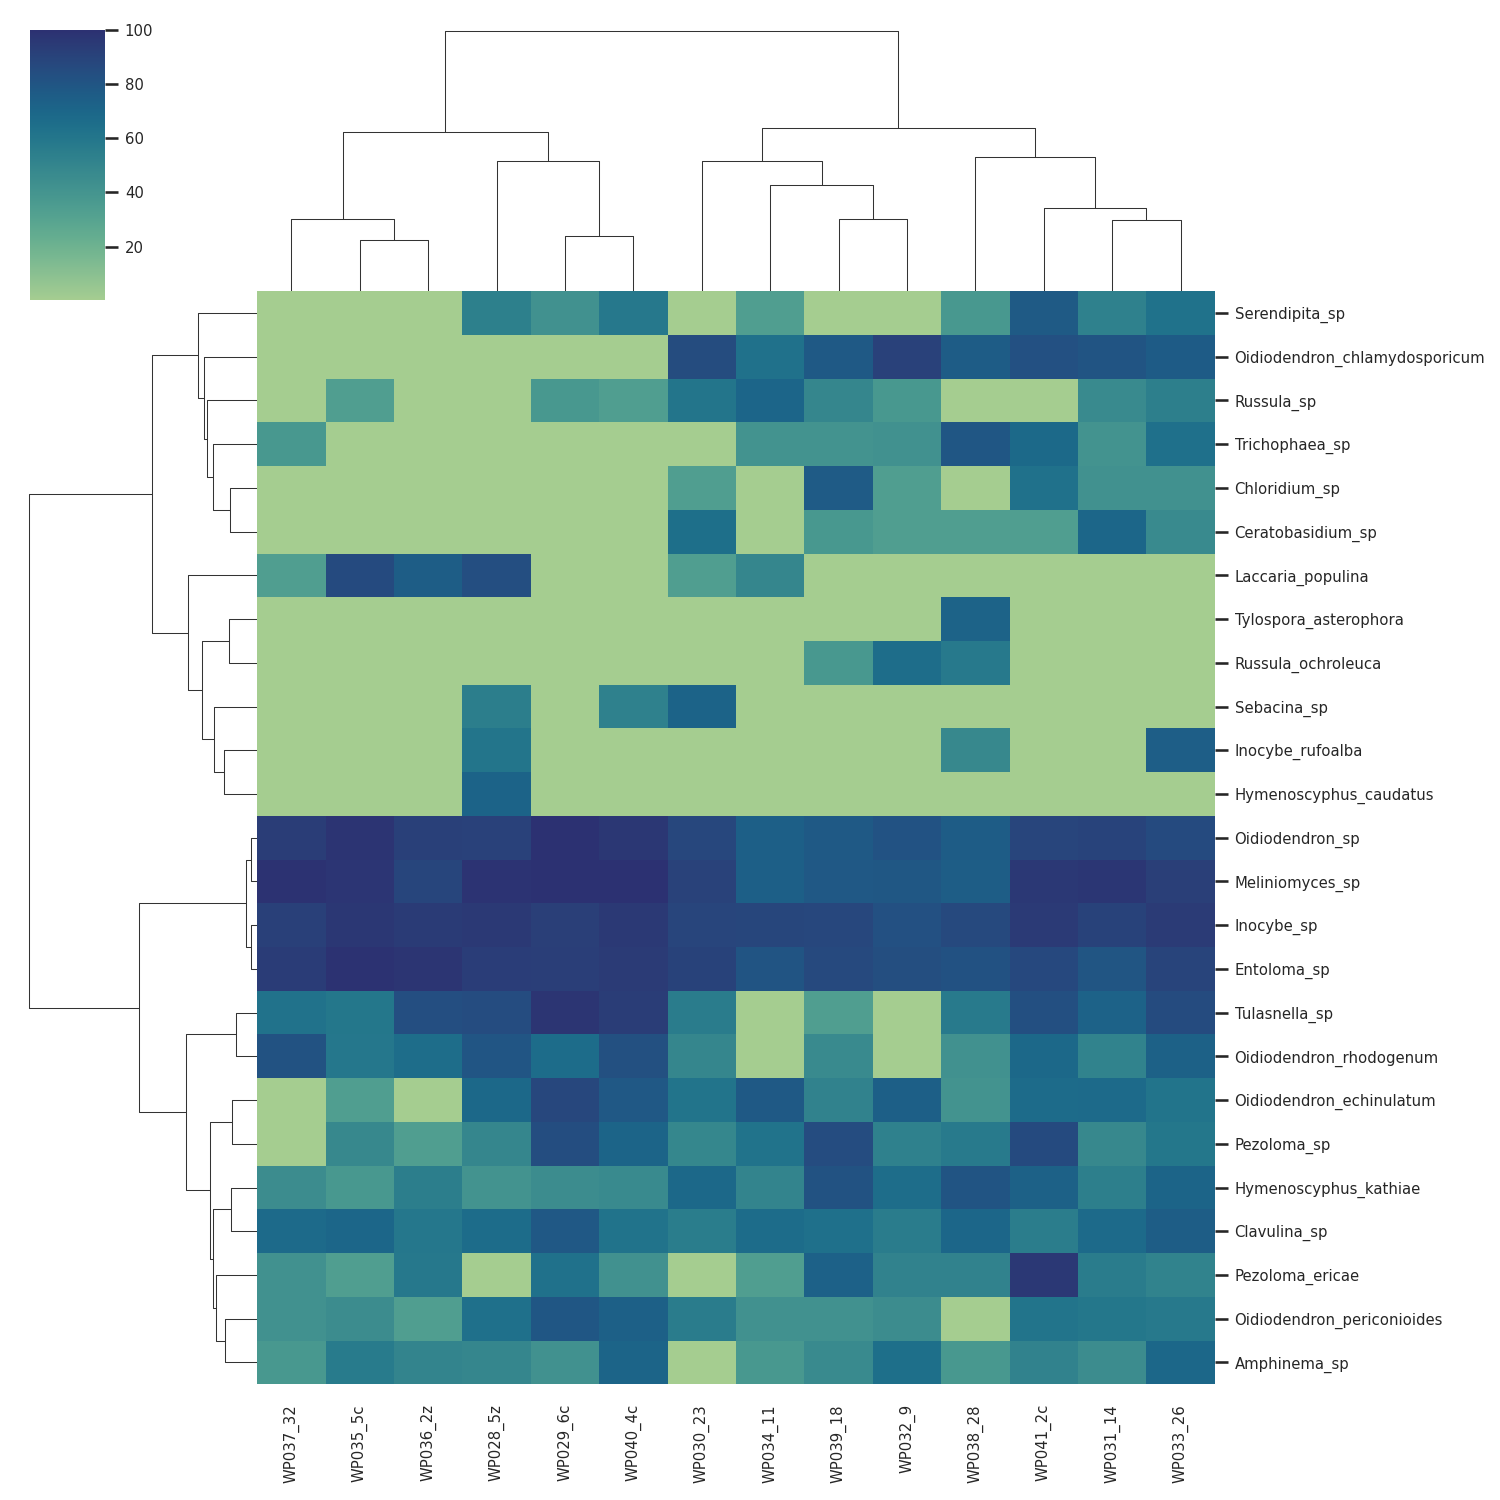
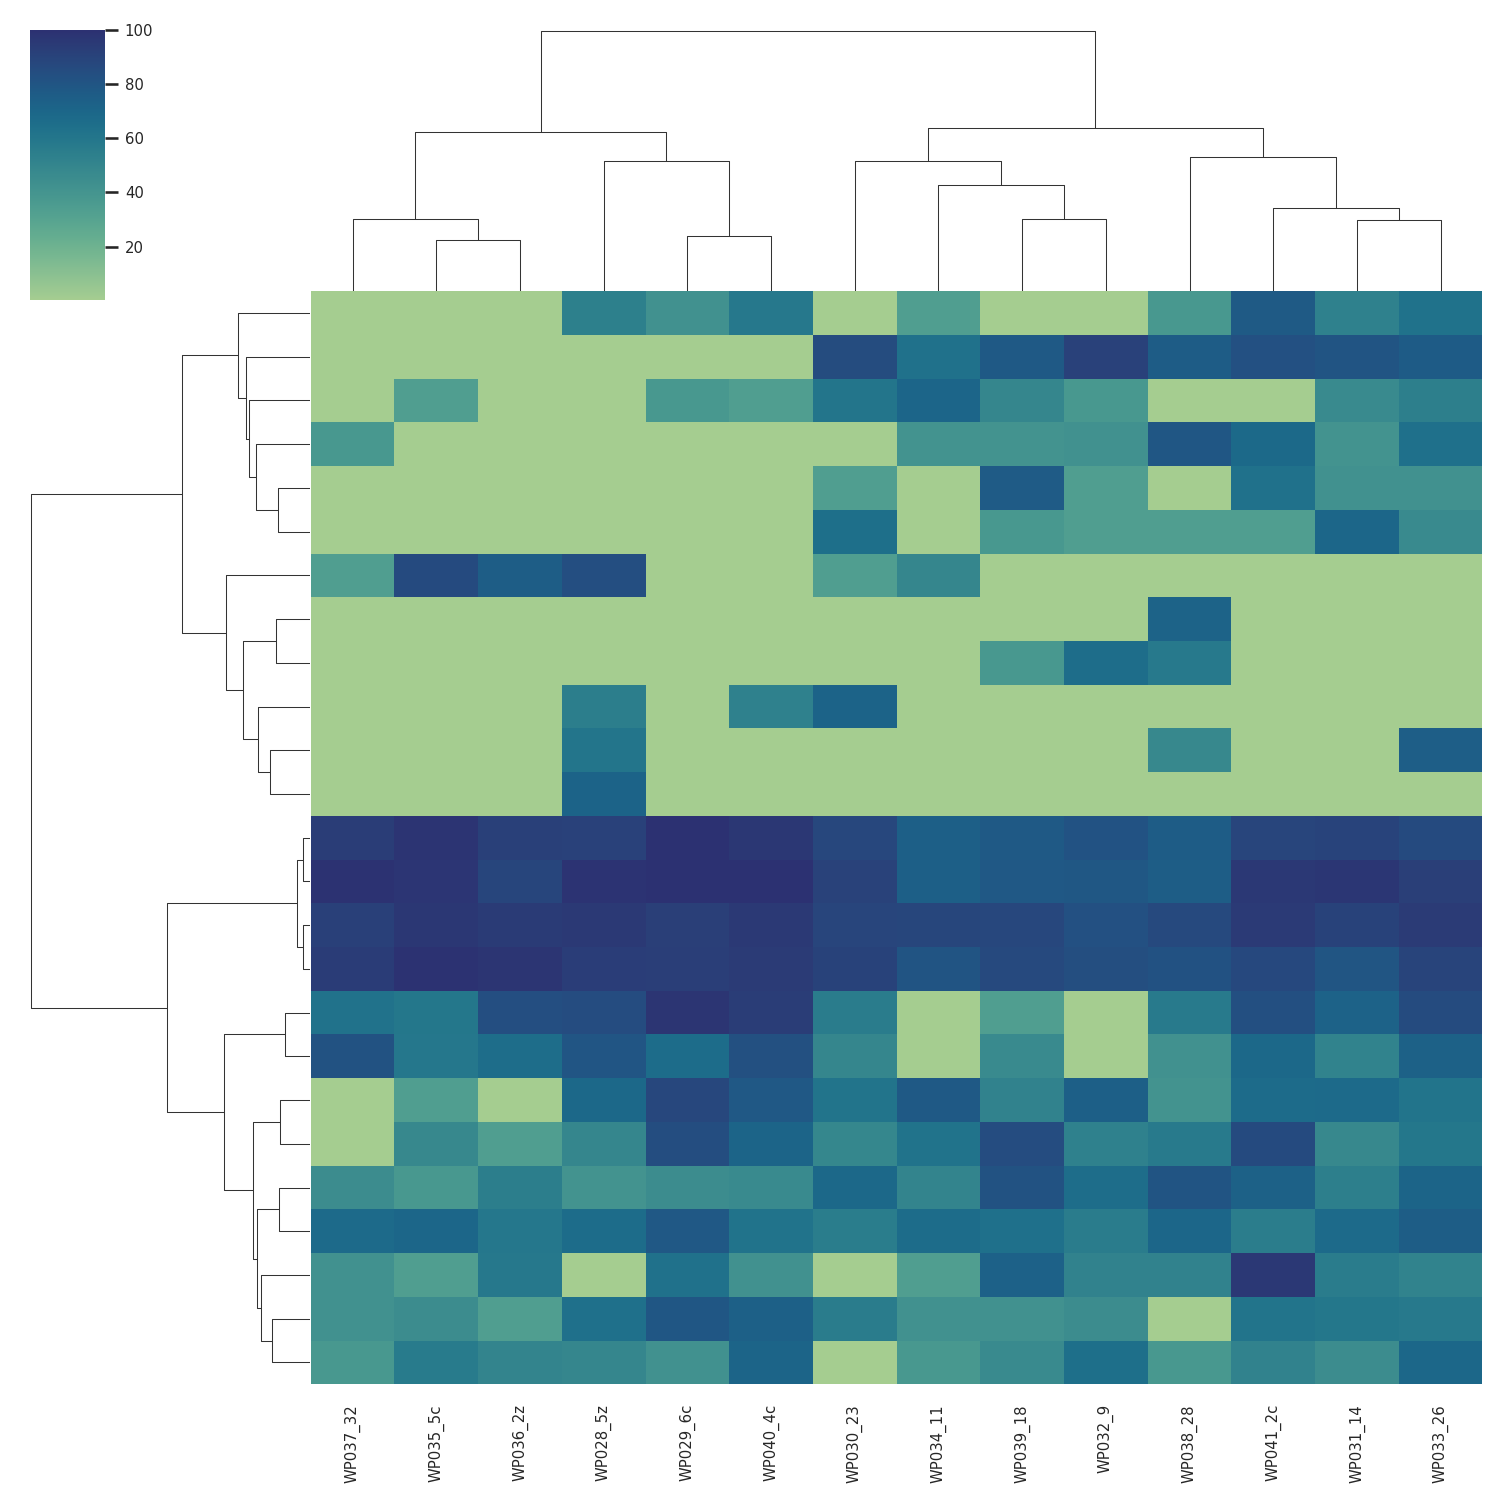
Added Python scripts

diff --git a/Scripts/Python/k-mean_clustering.py b/Scripts/Python/k-mean_clustering.py
@@ -1,0 +1,137 @@
+import csv
+import numpy as np
+from skbio.diversity import alpha_diversity
+from random import sample
+import matplotlib.pyplot as plt
+from matplotlib.lines import Line2D
+from sklearn.cluster import KMeans
+from scipy.spatial import ConvexHull
+
+# Reads data from two files, one to sample from (that is more random set) to create bootsrap data and real data
+freq_data_file = open('species_freq_table_filtered.tsv')
+sampling_data_file = open('species_freq_table_expanded.tsv')
+freq_data_reader = csv.reader(freq_data_file, delimiter='\t')
+sampling_data_reader = csv.reader(sampling_data_file, delimiter='\t')
+
+# Creates matrix of real data to calculate indexes used as clustering parameters
+sample_names = []
+first_line = True
+real_data_matrix = []
+samples_indexes = slice(0)
+sample_num = 0
+species_count = 0
+real_data_list = []
+for line in freq_data_reader:
+	if first_line:
+		samples_indexes = slice(line.index('Species')+1, line.index('Kingdom'))
+		sample_names = line[samples_indexes]
+		sample_num = samples_indexes.stop - samples_indexes.start
+		real_data_matrix = [[] for i in range(sample_num)]
+		first_line = False
+		continue
+	line = line[samples_indexes]
+	for i in range(sample_num):
+		real_data_matrix[i].append(float(line[i]))
+	species_count += 1
+	for num in line:
+		real_data_list.append(float(num))
+
+# Reads data in sampling set, but as a list as there is no need to keep samples separate
+first_line = True
+sample_data_list = []
+samples_indexes = slice(0)
+sample_num = 0
+for line in sampling_data_reader:
+	if first_line:
+		samples_indexes = slice(line.index('Species')+1, line.index('Kingdom'))
+		first_line = False
+		continue
+	line = line[samples_indexes]
+	for num in line:
+		sample_data_list.append(float(num))
+
+# Calculates Margalef index for real data
+margalef_of_real_data = list(alpha_diversity('margalef', real_data_matrix))
+
+# Creates 300 random samples and calculates Margalef of that data
+rep_num = 300
+booted_margalefs = []
+for i in range(rep_num):
+	random_sample = sample(sample_data_list, species_count)
+	random_margalef = alpha_diversity('margalef', random_sample)[0]
+	booted_margalefs.append(random_margalef)
+
+# Calculates max value in each sample to later get max value in whole matrix
+maxes_in_sample_data = [int(max(sample)) for sample in real_data_matrix]
+simpson_of_real_data = list(alpha_diversity('simpson_e', real_data_matrix))
+
+# Here bootstrap method differs slightly from one before as this index is more sensive to randmness of data less to richness of the sample
+booted_simpsons = []
+for i in range(rep_num):
+	random_sample = sample(range(0, int(max(sample_data_list))), species_count)
+	random_simpson = alpha_diversity('simpson_e', random_sample)[0]
+	booted_simpsons.append(random_simpson)
+
+# Creates simple scatterplot with all points, but no clusters to see how much they differ without that clue
+all_margalef = margalef_of_real_data.copy()
+all_margalef.extend(booted_margalefs)
+all_simpson = simpson_of_real_data.copy()
+all_simpson.extend(booted_simpsons)
+plt.scatter(all_margalef, all_simpson)
+plt.title('Alpha diversity')
+plt.xlabel('Margalef index')
+plt.ylabel('Simpson evenness index')
+plt.show()
+
+
+all_points = [tup for tup in zip(all_margalef, all_simpson)]
+sample_points = np.array([tup for tup in zip(margalef_of_real_data, simpson_of_real_data)])
+booted_points = np.array([tup for tup in zip(booted_margalefs, booted_simpsons)])
+model = KMeans(n_clusters=3)
+model.fit(all_points)
+labels = model.predict(all_points)
+plt.scatter(all_margalef, all_simpson, c=np.array(['green', 'blue', 'red', 'brown'])[np.array(labels)])
+plt.scatter(model.cluster_centers_[:, 0], model.cluster_centers_[:, 1], marker='D', s=200, alpha=0.75)
+forest_points = []
+pots_points = []
+for i in range(len(sample_names)):
+	print(f'{sample_names[i]} --- {labels[i]}')
+	if labels[i] == 1:
+		forest_points.append(list(sample_points[i]))
+	elif labels[i] == 2:
+		pots_points.append(list(sample_points[i]))
+
+# Creates first clusters of points then convex hulls that show borders of the clusters and plots that
+forest_points = np.array(forest_points)
+pots_points = np.array(pots_points)
+forest_hull = ConvexHull(forest_points)
+booted_hull = ConvexHull(booted_points)
+pots_hull = ConvexHull(pots_points)
+forest_hull_x = np.append(forest_points[forest_hull.vertices, 0], forest_points[forest_hull.vertices, 0][0])
+forest_hull_y = np.append(forest_points[forest_hull.vertices, 1], forest_points[forest_hull.vertices, 1][0])
+pots_hull_x = np.append(pots_points[pots_hull.vertices, 0], pots_points[pots_hull.vertices, 0][0])
+pots_hull_y = np.append(pots_points[pots_hull.vertices, 1], pots_points[pots_hull.vertices, 1][0])
+booted_hull_x = np.append(booted_points[booted_hull.vertices, 0], booted_points[booted_hull.vertices, 0][0])
+booted_hull_y = np.append(booted_points[booted_hull.vertices, 1], booted_points[booted_hull.vertices, 1][0])
+plt.fill(booted_hull_x, booted_hull_y, alpha=0.3, c=np.array([0, 0.501, 0]))
+plt.fill(forest_hull_x, forest_hull_y, alpha=0.3, c=np.array([0, 0, 1]))
+plt.fill(pots_hull_x, pots_hull_y, alpha=0.3, c=np.array([1, 0, 0]))
+legend_elements = [Line2D([0], [0], marker='o', color='w', label='Forest samples', markerfacecolor='blue', markersize=5),
+				Line2D([0], [0], marker='o', color='w', label='Pots samples', markerfacecolor='red', markersize=5),
+				Line2D([0], [0], marker='o', color='w', label='Bootstrap samples', markerfacecolor='green', markersize=5)]
+plt.legend(handles=legend_elements, loc='upper right')
+plt.title('Alpha diversity')
+plt.xlabel('Margalef index')
+plt.ylabel('Simpson evenness index')
+plt.show()
+
+# This clustering is to check is there are two clusters that correspond to pots and forest samples
+model = KMeans(n_clusters=2)
+model.fit(sample_points)
+labels = model.predict(sample_points)
+plt.scatter(margalef_of_real_data, simpson_of_real_data, c=np.array(['brown', 'black', 'red'])[np.array(labels)])
+plt.scatter(model.cluster_centers_[:, 0], model.cluster_centers_[:, 1], marker='D', s=200, alpha=0.75)
+plt.title('Alpha diversity of real data\n')
+plt.xlabel('Margalef index')
+plt.ylabel('Simpson evenness index')
+plt.show()

diff --git a/Scripts/Python/krona_preparation.py b/Scripts/Python/krona_preparation.py
@@ -1,0 +1,91 @@
+import csv
+from pathlib import Path as P
+import subprocess
+
+# Reads data, creates output dir and find count column
+data_file = open('species_freq_table_filtered.tsv')
+column_names = data_file.readline().rstrip().split('\t')
+data_file.close()
+freq_index = column_names.index("Total abundance")
+dir_path = P('../Kronas')
+dir_path.mkdir(exist_ok=True)
+
+# This part encodes simple presents and make Custom set option available
+krona_columns = {}
+krona_columns["Taxonomy"] = [index for index in range(column_names.index("Kingdom"), column_names.index("Species", 1)+1)]
+krona_columns["Guild"] = [column_names.index("Kingdom"), column_names.index("Guild category"), column_names.index("Genus"), column_names.index("Species")]
+krona_columns["Custom set"] = [index for index in range(column_names.index("Kingdom"), column_names.index("Guild category")+1)]
+krona_columns["Custom set"].remove(freq_index)
+
+# Pulls names of columns instead od indexes to allow user to read names
+for key, value in krona_columns.items():
+	new_value = [column_names[index] for index in value]
+	krona_columns[key] = new_value
+number_of_kronas = int(input('How many Krona charts would you like to generate?\n>>>'))
+
+
+# Big loop that generates Kronas until set number will be made, makes possible to make as many as user wants without restarting script
+i = 0
+while i < number_of_kronas:
+	print(f'Choose one of the following types of Krona charts: {", ".join(krona_columns)}')
+	krona_format = input('>>>').strip()
+
+    # Big part of code that handles Custom set option with listing names, choosing and sorting chosen into some order
+	if krona_format == "Custom set":
+		selected_columns = krona_columns[krona_format]
+		print('Choose one or more of these available columns, by typing their number separated by coma. Example: "1, 2, 3"')
+		for num, col in enumerate(selected_columns):
+			print(f'{num} --- {col}')
+		col_nums = input(">>>").split(", ")
+		col_nums.sort()
+		selected_columns = [selected_columns[int(num)] for num in col_nums]
+		if 'Guild' in selected_columns:
+			selected_columns.remove('Guild')
+			if 'Genus' in selected_columns:
+				selected_columns.insert(selected_columns.index('Genus'), 'Guild')
+			elif 'Species' in selected_columns:
+				selected_columns.insert(selected_columns.index('Species'), 'Guild')
+			else:
+				selected_columns.append('Guild')
+		i += 1
+	elif krona_format in krona_columns.keys():
+		selected_columns = krona_columns[krona_format]
+		i += 1
+	else:
+		print('Please choose one of available options')
+		continue
+
+    # Creates tsv file as input for KronaTools and sets up readers
+	krona_format = krona_format.lower().replace(" ", "_")
+	selected_columns = [column_names.index(col) for col in selected_columns]
+	selected_columns.insert(0, freq_index)
+	data_file = open('species_freq_table_filtered.tsv')
+	data_reader = csv.reader(data_file, delimiter="\t")
+	krona_input_file_path = f'krona_input_{krona_format}.tsv'
+	krona_input_file_path = P(dir_path, krona_input_file_path)
+	krona_input_file = open(krona_input_file_path, mode="w")
+	krona_input_writer = csv.writer(krona_input_file, delimiter='\t')
+
+    # Reads chosen columns and also count column then writes them to tsv table that will be input for KronaTools
+	first_row = True
+	# chosen_cloumns = ['WP028_5z', 'WP029_6c', 'WP035_5c', 'WP036_2z', 'WP040_4c', 'WP041_2c']
+	for data_row in data_reader:
+		if first_row:
+			# chosen_columns = [data_row.index(sample) for sample in chosen_cloumns]
+			first_row = False
+			continue
+		# krona_row = [sum(float(data_row[index]) for index in chosen_columns)]
+		krona_row = []
+		krona_row.extend([data_row[index] for index in selected_columns])
+		krona_input_writer.writerow(krona_row)
+	data_file.close()
+	krona_input_file.close()
+
+    # Uses subproces to run KronaTools and make Krona chart inside the script
+	krona_chart_path = P(krona_input_file_path.parent, f'ABSG_{krona_format}_all_krona.html')
+	subprocess_command = f"ktImportText {krona_input_file_path} -o {krona_chart_path}".split(" ")
+	subprocess.run(subprocess_command)
+	print(f'Krona chart number {i} generated')
+
+# Uncommenting commented lines and commenting lines 65 and 66 will produce a Krona that shows only proportions of chosen coloumns
+# This version will include pots only

diff --git a/Scripts/Python/clustermap_maker.py b/Scripts/Python/clustermap_maker.py
@@ -1,0 +1,89 @@
+import seaborn
+import matplotlib.pyplot as plt
+import csv
+import statistics
+import copy
+seaborn.set(font_scale=0.6)
+
+# Value of abundance to determine which species will pass the filter
+cut_off = 75
+
+# Opens data file and reads all data
+file = open("species_freq_table_expanded.tsv")
+data_file = csv.reader(file, delimiter="\t")
+freq_data = {}
+taxonomy_data = {}
+first_row = True
+names = []
+sample_names = []
+sample_indexes = slice(0, 0)
+kingdom_index = 0
+for line in data_file:
+	if first_row:
+		sample_indexes = slice(line.index('Species')+1, line.index('WP027_B'))
+		kingdom_index = line.index('Kingdom')
+		names = line[sample_indexes.start-1:sample_indexes.stop]
+		names.extend(line[kingdom_index:])
+		sample_names = names[sample_indexes]
+		first_row = False
+		continue
+	name = line[sample_indexes.start-1]
+	nums = [float(num) for num in line[sample_indexes]]
+	nums.append(sum(nums))
+	freq_data[name] = nums
+	taxonomy = line[kingdom_index:]
+	taxonomy_data[name] = taxonomy
+
+
+# Starts to change data format to match input for seaborn and filters taxa by occurance. With cuf-off 75 we are left with 99.02%
+seq_num_before_filtering = sum([seq[-1] for seq in freq_data.values()])
+print(f"Liczba sekwencji przed filtracją: {seq_num_before_filtering}")
+heatmap_data = {}
+otu_names = list(freq_data.keys())
+otu_names = [tup[1] for tup in enumerate(names) if tup[0] % 4 == 0]
+for seq, hits in freq_data.items():
+	if hits[-1] >= cut_off:
+		heatmap_data[seq] = hits[:-1]
+print(f"Number of species after filtering: {len(heatmap_data)}")
+seq_num_after_filtering = [sum(seq) for seq in heatmap_data.values()]
+print(f"Number of hits after filterin: {sum(seq_num_after_filtering)}")
+print(f'Percentage of hits after filtering: {round((sum(seq_num_after_filtering)/seq_num_before_filtering)*100, 2)}%')
+print(f"Mean frequency: {round(statistics.mean(seq_num_after_filtering), 2)}")
+print(f"Median frequency: {round(statistics.median(seq_num_after_filtering), 2)}")
+print(f"Minimal freq of taxa after filtering: {min(seq_num_after_filtering)}")
+
+# Finalises changing data format to fit seaborn and changes it to be percentile table, so heatmap has normalised data. Log scale and other nornmalisation methods show less success
+heatmap_data_values = copy.deepcopy(list(heatmap_data.values()))
+heatmap_data_flattened = []
+for el in heatmap_data_values:
+	heatmap_data_flattened.extend(el)
+heatmap_data_flattened.sort()
+percentile_dict = {num: round((heatmap_data_flattened.index(num) + 1) / len(heatmap_data_flattened) * 100, 2) for num in heatmap_data_flattened}
+for i in range(len(heatmap_data_values)):
+	seq = heatmap_data_values[i]
+	for j in range(len(seq)):
+		num = seq[j]
+		perc = percentile_dict[num]
+		seq[j] = perc
+	heatmap_data_values[i] = seq
+
+# Plots heatmap of taxa occurance and clusters pair-wise samples
+otu_heat_map = seaborn.clustermap(heatmap_data_values, cmap="crest", row_cluster=False, cbar_pos=(0.1, 0.07, 0.05, 0.735),
+								method='ward', xticklabels=sample_names, yticklabels=False)
+# yticklabels=otu_names
+
+plt.show()
+
+# Asks if data is accaptable (as this script also filters data) and if 'Y' writes filtered data. I gave it option to not be accaptable so that user can experiment with different cut-offs
+acceptable = False
+ask = input("Is this data acceptable? [Y/N]\n>>>")
+if ask == "Y"::
+	filtered_file = open("species_freq_table_filtered.tsv", mode="w")
+	filtered_file_writer = csv.writer(filtered_file, delimiter="\t")
+	filtered_file_writer.writerow(names)
+	for seq, hits in heatmap_data.items():
+		row = [seq]
+		row.extend(hits)
+		taxonomy = taxonomy_data[seq]
+		row.extend(taxonomy)
+		filtered_file_writer.writerow(row)

diff --git a/Scripts/Python/guild_clustermap_maker.py b/Scripts/Python/guild_clustermap_maker.py
@@ -1,0 +1,56 @@
+import seaborn
+import matplotlib.pyplot as plt
+import csv
+import copy
+seaborn.set(font_scale=0.65)
+
+# Open file and reads data of species that are in metacategory specified by guild_wanted
+data_file = open('../../Data/species_freq_table_filtered.tsv')
+data_reader = csv.reader(data_file, delimiter='\t')
+
+guild_wanted = 'Myc'
+most_common_dict = {}
+freq_data = {}
+sample_names = []
+sample_indexes = slice(0, 0)
+species_index = 0
+guild_index = 0
+first_line = True
+for row in data_reader:
+	if first_line:
+		species_index = row.index('Species')
+		guild_index = row.index('Guild category')
+		sample_indexes = slice(species_index+1, row.index('Kingdom'))
+		sample_names = row[sample_indexes]
+		first_line = False
+		continue
+	if row[guild_index] == guild_wanted:
+		nums = [float(num) for num in row[sample_indexes]]
+		freq_data[row[species_index]] = nums
+		
+
+# Changes the data format to match what seaborn expect and converst absolute values to percentile as this method shows to be best suited
+heatmap_data = []
+species_names = []
+for key, value in freq_data.items():
+	copyied = copy.deepcopy(value)
+	heatmap_data.append(copyied)
+	species_names.append(key)
+heatmap_data_flattened = []
+for row in heatmap_data:
+	heatmap_data_flattened.extend(row)
+heatmap_data_flattened.sort()
+percentile_dict = {num: round((heatmap_data_flattened.index(num) + 1) / len(heatmap_data_flattened) * 100, 2) for num in heatmap_data_flattened}
+for i in range(len(heatmap_data)):
+	seq = heatmap_data[i]
+	for j in range(len(seq)):
+		num = seq[j]
+		perc = percentile_dict[num]
+		seq[j] = perc
+	heatmap_data[i] = seq
+
+# Plots clustermap and saves to file
+species_guilds_heatmap = seaborn.clustermap(heatmap_data, cmap="crest", yticklabels=False, xticklabels=sample_names,
+											col_cluster=True, method='ward')
+plt.savefig(f'../../Graphs/Clustering/Pairwise_clustering/{guild_wanted}_clustermap.png', dpi=150)
+
